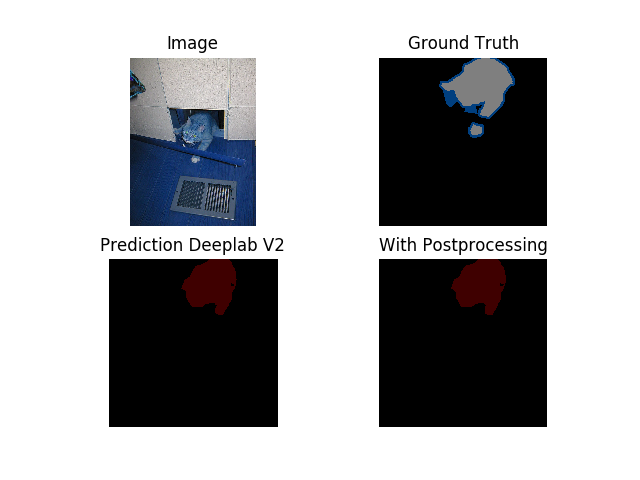
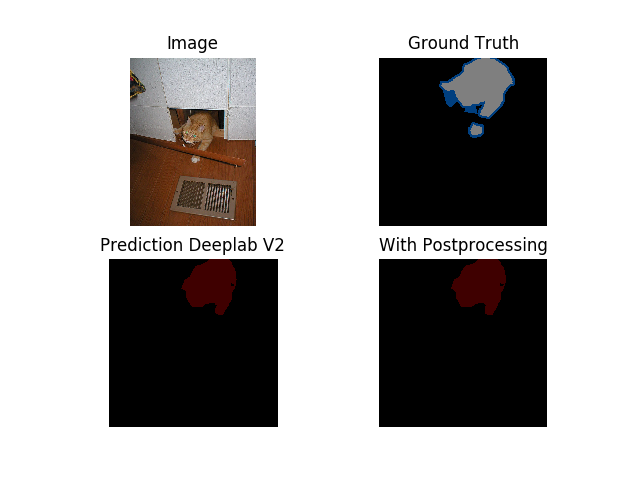
last images

Changed region(s): [[0.1875, 0.2188, 0.4062, 0.4688], [0.1875, 0.1562, 0.2188, 0.1875]]

diff --git a/LoadAndVisualizeTensorTest.py b/LoadAndVisualizeTensorTest.py
@@ -71,7 +71,7 @@ pred1 = changeOutput(pred1)
 pred2 = torch.load('/root/VOC12_After_Deeplab_Test/prediction' + str(args.index) + '.pth', map_location='cpu') #change to new one!!!
 pred2 = changeOutput(pred2)
 
-img = cv2.imread('/root/VOCdevkit/VOC2012/JPEGImages/' + str(batch[3][0]) + '.jpg', cv2.IMREAD_COLOR)
+img = plt.imread('/root/VOCdevkit/VOC2012/JPEGImages/' + str(batch[3][0]) + '.jpg')
 
 saveImage(gt, pred1, pred2, img)
 
